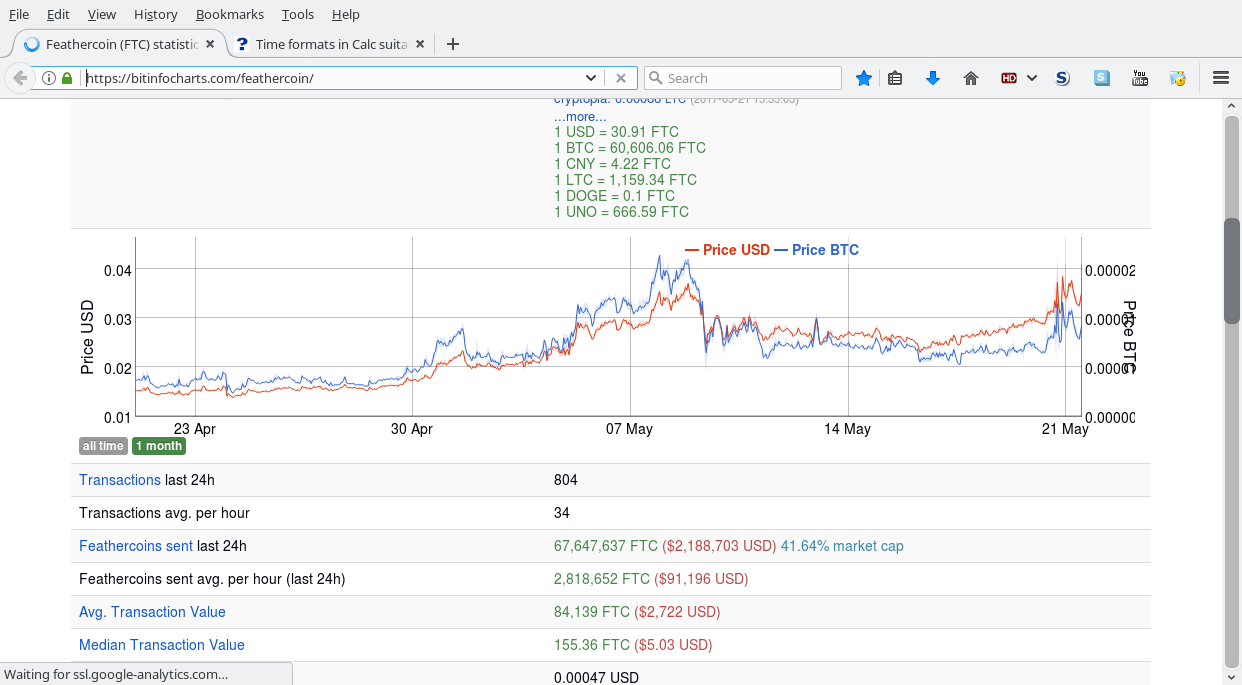
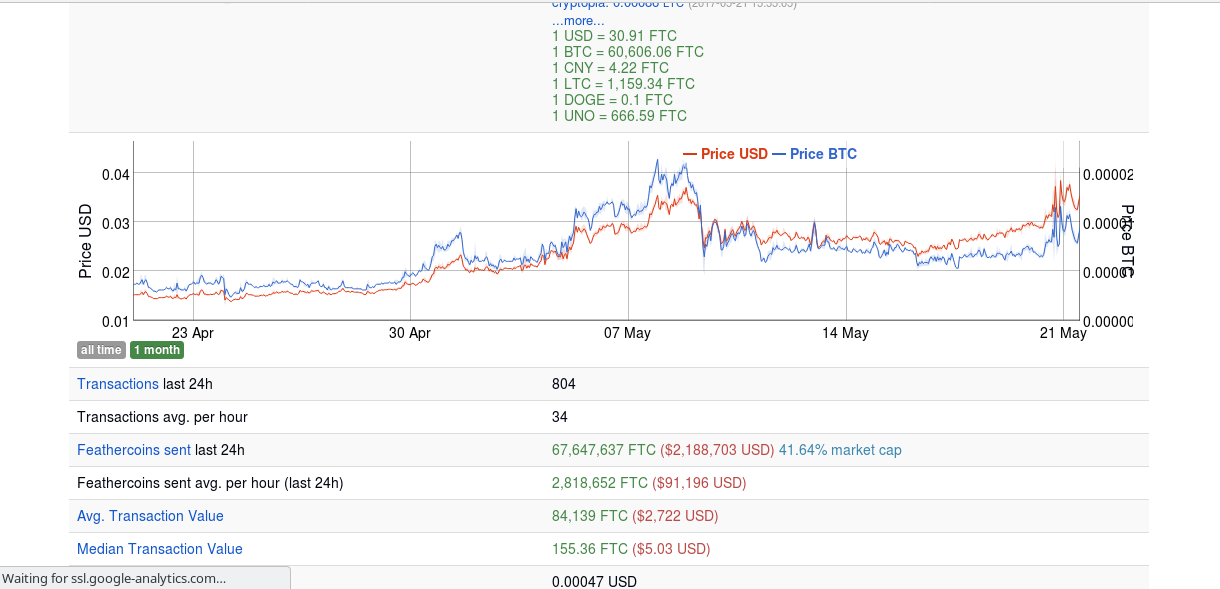
Update readme analysis and include improved  FTC price chart overview

diff --git a/2017-05-21 FTCTransactionAnalysis/README.md b/2017-05-21 FTCTransactionAnalysis/README.md
@@ -20,6 +20,15 @@ https://github.com/wrapperband/FTCBlockTimeAnalysis/tree/master/2017-05-21%20FTC
 |   |    |    |    |   |   |   |   |
 
 
+**Feathercoin Price charts**
+
+Monitoring the FTC price chart on https://bitinfocharts.com/feathercoin/ , showed some anomolis with the Bitcoin to FTC price. The USD to BTC price had tracked up untill recently and had devided, possibly due to a BTC price drop. That requires more in depth analysis as it may be due to trading iin a third currency by the main exchanges. 
+
+The expanding and high levels and novel variation promted the analysis.
+
+![Transaction Peak](https://github.com/wrapperband/FTCBlockTimeAnalysis/blob/master/2017-05-21%20FTCTransactionAnalysis/FTCPrice_162139.png?raw=true)
+
+ 
 
 **Feathercoin Difficulty**   
 
